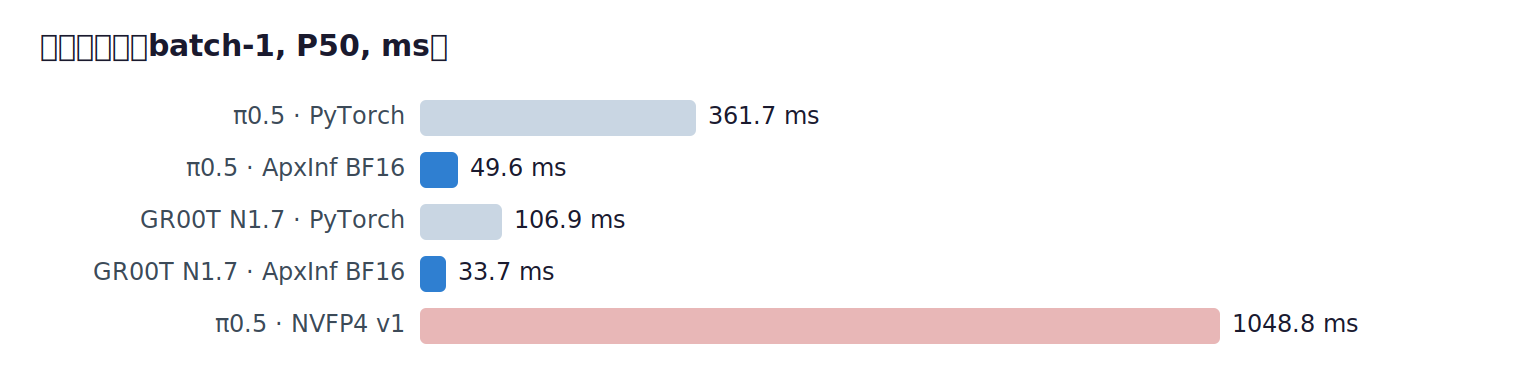
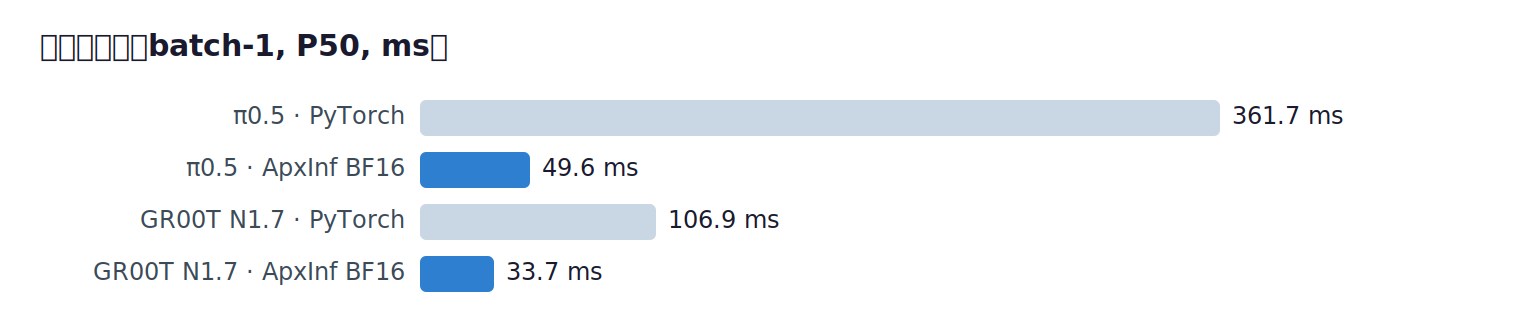
figure fixes: removed confusing NVFP4-v1 1048.8ms bar from e1 chart (degraded contended-window measurement, not a valid arm); replaced animated swizzle demo with static layout principle figure (logical grid -> physical 512B cluster slabs, formula, worked offsets) plus why-it-must-be-this-layout expl

Changed region(s): [[0.0618, 0.2381, 0.8967, 0.8929], [0.0309, 0.0893, 0.3092, 0.1786]]

diff --git a/paper/make_figs.py b/paper/make_figs.py
@@ -43,7 +43,6 @@ def e1_chart():
         ("π0.5 · ApxInf BF16", 49.6, "#2f7fd1"),
         ("GR00T N1.7 · PyTorch", 106.9, "#c9d6e3"),
         ("GR00T N1.7 · ApxInf BF16", 33.7, "#2f7fd1"),
-        ("π0.5 · NVFP4 v1", 1048.8, "#e8b7b7"),  # unfused routing, no graph (fusion headroom: 1.3-5.3x)
     ]
     hbar_chart(rows, "端到端延迟（batch-1, P50, ms）", " ms", "e1_latency.svg")
 
@@ -108,8 +107,69 @@ def ladder_chart():
     ]
     hbar_chart(rows, "闭环恢复阶樯：lIBERO-10 成功率（%，10×10 全量）", "%", "ladder.svg")
 
+
+
+def swizzle_layout():
+    """Static NVFP4 scale-layout principle diagram: logical (row, block) grid
+    -> physical swizzled buffer with the offset formula and worked examples.
+    Demo grid 8 rows x 8 blocks (real layout: 128-row panels, 32-row clusters)."""
+    import colorsys
+    W, H = 940, 500
+    s = [svg_header(W, H, "NVFP4 \u5757\u7f29\u653e\u7684\u7269\u7406\u5e03\u5c40\u539f\u7406\uff08\u9759\u6001\u793a\u610f\uff0c\u6f14\u793a\u7f51\u683c 8\u884c\u00d78 \u5757\uff09")]
+    def hue(r, b):
+        h = ((r * 47 + b * 23) % 360) / 360.0
+        rr, gg, bb = colorsys.hls_to_rgb(h, 0.78, 0.55)
+        return f"#{int(rr*255):02x}{int(gg*255):02x}{int(bb*255):02x}"
+    cell, gap = 22, 3
+    lx, ly = 150, 96
+    s.append(f'<text x="{lx + 4*cell}" y="72" font-size="13" font-weight="600" text-anchor="middle" fill="#1a1a2e">\u903b\u8f91\u89c6\u56fe scale[row, block]</text>')
+    for r in range(8):
+        for b in range(8):
+            x, y = lx + b * (cell + gap), ly + r * (cell + gap)
+            s.append(f'<rect x="{x}" y="{y}" width="{cell}" height="{cell}" rx="3" fill="{hue(r, b)}" stroke="#8fa3b8"/>')
+    s.append(f'<text x="{lx - 14}" y="{ly + 4*cell}" font-size="12" text-anchor="middle" fill="#3c4a58" transform="rotate(-90 {lx-14} {ly+4*cell})">\u884c r</text>')
+    s.append(f'<text x="{lx + 4*cell}" y="{ly - 12}" font-size="12" text-anchor="middle" fill="#3c4a58">\u5757 b\uff08\u6bcf\u5757\u7ba1 16 \u4e2a\u6743\u91cd\u5143\u7d20\uff09</text>')
+    s.append(f'<text x="{lx + 9*cell + 10}" y="{ly + 4*cell}" font-size="11" fill="#5b6b7d">\u6bcf\u683c = 1 \u5b57\u8282 E4M3</text>')
+    s.append(f'<text x="{lx + 9*cell + 10}" y="{ly + 4*cell + 18}" font-size="11" fill="#5b6b7d">\uff08\u4e00\u4e2a 16 \u5143\u7d20\u5757\u7684\u5e45\u5ea6\uff09</text>')
+    s.append('<text x="470" y="120" font-size="12.5" fill="#0f6db3" font-family="Consolas,monospace">off(r,b) = PS*(r/128)</text>')
+    s.append('<text x="470" y="140" font-size="12.5" fill="#0f6db3" font-family="Consolas,monospace">  + 512*(b/4)</text>')
+    s.append('<text x="470" y="160" font-size="12.5" fill="#0f6db3" font-family="Consolas,monospace">  + 16*(r%32)</text>')
+    s.append('<text x="470" y="180" font-size="12.5" fill="#0f6db3" font-family="Consolas,monospace">  + 4*((r/32)%4) + (b%4)</text>')
+    s.append('<text x="470" y="204" font-size="11.5" fill="#3c4a58">PS = 512*ceil(KB/4)\uff08\u4e00\u4e2a 128 \u884c panel \u7684\u5b57\u8282\u6570\uff09</text>')
+    s.append('<text x="470" y="232" font-size="11.5" font-weight="600" fill="#1a1a2e">\u4e3a\u4ec0\u4e48\u8981\u91cd\u6392\uff1f</text>')
+    for i, line in enumerate([
+        "\u2022 \u4e00\u884c\u7684 4 \u4e2a\u5757 scale \u5728\u7269\u7406\u4e0a\u8fde\u7eed\uff084 \u5b57\u8282\uff09",
+        "\u2022 32 \u884c\u7c07 \u00d7 4 \u5757\u7ec4 = 512B \u8fde\u7eed\u533a\u95f4",
+        "\u2022 kernel \u6309\u6b64\u987a\u5e8f\u6d88\u8d39\uff1awarp \u5408\u5e76\u8bbf\u95ee\uff0c",
+        "  \u6bcf lane \u4e00\u6b21 16B \u5411\u91cf\u8bfb\u8fd8\u4e00\u884c 4 \u5757",
+    ]):
+        s.append(f'<text x="470" y="{252 + i*18}" font-size="11.5" fill="#3c4a58">{line}</text>')
+    px, py = 742, 96
+    s.append(f'<text x="{px + 2*cell}" y="72" font-size="13" font-weight="600" text-anchor="middle" fill="#1a1a2e">\u7269\u7406\u7f13\u51b2\uff08\u4e24\u4e2a 512B slab\uff09</text>')
+    for slab in range(2):
+        ox = px + slab * (4 * cell + 52)
+        s.append(f'<text x="{ox + 2*cell}" y="{py - 12}" font-size="11" text-anchor="middle" fill="#0f6db3">slab {slab}\uff08b/4={slab}\uff09\u57fa\u5740 {512*slab}</text>')
+        s.append(f'<rect x="{ox - 4}" y="{py - 4}" width="{4*cell + 3*gap + 8}" height="{8*cell + 7*gap + 8}" fill="none" stroke="#0f6db3" stroke-dasharray="4 3"/>')
+        for r in range(8):
+            for q in range(4):
+                b = slab * 4 + q
+                off = 512 * (b // 4) + 16 * (r % 32) + 4 * ((r // 32) % 4) + (b % 4)
+                x, y = ox + q * (cell + gap), py + r * (cell + gap)
+                s.append(f'<rect x="{x}" y="{y}" width="{cell}" height="{cell}" rx="3" fill="{hue(r, b)}" stroke="#8fa3b8"/>')
+    s.append(f'<text x="{px}" y="{py + 8*cell + 22}" font-size="11" fill="#5b6b7d">\u540c\u8272 = \u540c\u4e00\u4e2a\u903b\u8f91\u5355\u5143\uff1b\u4e00\u5217 4 \u683c = \u4e00\u884c\u7684\u8fde\u7eed 4 \u5b57\u8282</text>')
+    s.append('<text x="150" y="356" font-size="12" font-weight="600" fill="#1a1a2e">\u5b9e\u4f8b\u8ba1\u7b97\uff08\u6f14\u793a\u7f51\u683c\uff0cr&lt;32 \u6545\u4ea4\u9519\u9879\u4e3a 0\uff09\uff1a</text>')
+    for i, (r, b) in enumerate([(0, 0), (0, 5), (3, 2), (7, 7)]):
+        off = 512 * (b // 4) + 16 * (r % 32) + 4 * ((r // 32) % 4) + (b % 4)
+        s.append(f'<text x="150" y="{378 + i*20}" font-size="12" fill="#3c4a58" font-family="Consolas,monospace">(r={r}, b={b}) -> \u5b57\u8282\u504f\u79fb {off}</text>')
+    s.append('<text x="470" y="400" font-size="11" fill="#5b6b7d">\u771f\u5b9e\u5c3a\u5bf8\uff1a128 \u884c/panel\uff1b\u884c\u5185\u6309 32 \u884c\u7c07\u56db\u7ec4\u4ea4\u9514\uff1b</text>')
+    s.append('<text x="470" y="418" font-size="11" fill="#5b6b7d">\u672c\u56fe\u4e3a 8\u00d78 \u7f29\u5c0f\u6f14\u793a\u3002\u5e03\u5c40\u7531\u5355\u5b57\u8282\u63a2\u9488\u5b9e\u9a8c\u6d4b\u5b9a\uff08\u00a73.1\uff09\u3002</text>')
+    s.append("</svg>")
+    (FIGS / "swizzle_layout.svg").write_text("".join(s), encoding="utf-8")
+    print("wrote swizzle_layout.svg")
+
 if __name__ == "__main__":
     e1_chart()
     opbench_heatmap()
     ladder_chart()
+    swizzle_layout()
     print("figures done ->", FIGS)

diff --git a/paper/build_html.py b/paper/build_html.py
@@ -41,56 +41,7 @@ blockquote{border-left:3px solid var(--soft);margin:16px 0;padding:2px 16px;colo
 .kv span{background:var(--band);border-radius:6px;padding:2px 10px;font-size:13px}
 """
 
-SWIZZLE_DEMO_JS = r"""
-// animated NVFP4 scale swizzle: logical (row, block) grid -> physical cuBLASLt buffer
-// formula decoded in spike: PS*(r/128) + 512*(b/4) + 16*(r%32) + 4*((r/32)%4) + (b%4)
-(function(){
-const svg=document.getElementById('swz'); if(!svg) return;
-const R=8, B=8;                                // demo grid 8x8 (formula generalizes)
-const PS=512*Math.ceil(B/4);
-const off=(r,b)=> PS*Math.floor(r/128) + 512*Math.floor(b/4) + 16*(r%32) + 4*(Math.floor(r/32)%4) + (b%4);
-const cell=19, gap=3, pad=30, midGap=70;
-const cells=[]; for(let r=0;r<R;r++)for(let b=0;b<B;b++)cells.push({r,b});
-const offs=[...new Set(cells.map(c=>off(c.r,c.b)))].sort((a,b)=>a-b);   // compact physical axis
-const W = pad + B*(cell+gap) + midGap + offs.length*(cell+gap) + pad;
-const H = pad + R*(cell+gap) + 34;
-svg.setAttribute('viewBox',`0 0 ${W} ${H}`);
-svg.setAttribute('width', W);
-const NS='http://www.w3.org/2000/svg';
-const hue=(r,b)=>`hsl(${(r*47+b*23)%360} 62% 80%)`;
-function el(tag,attrs,txt){const e=document.createElementNS(NS,tag);
-  for(const k in attrs)e.setAttribute(k,attrs[k]); if(txt!=null)e.textContent=txt; return e;}
-function label(x,y,txt,anchor){svg.appendChild(el('text',{x,y,'font-size':11,fill:'#5b6b7d',
-  'text-anchor':anchor||'start','font-family':'system-ui'},txt));}
-// frame titles
-label(pad, 20, '逻辑布局 scale(row, block)');
-label(pad + B*(cell+gap) + midGap, 20, '物理缓冲（swizzle 后字节偏移紧凑排列）');
-// logical position of cell (r,b): column b, row r
-const LX=b=>pad + b*(cell+gap), LY=r=>pad+12 + r*(cell+gap);
-// physical position: sorted offset index -> column; row = index of this cell among same-offset? offsets unique per (r,b) in this demo
-const colOf={}; offs.forEach((o,i)=>colOf[o]=i);
-const PX=c=>pad + B*(cell+gap) + midGap + colOf[off(c.r,c.b)]*(cell+gap);
-const PY=c=>LY(c.r);
-function draw(p){
-  [...svg.querySelectorAll('.anim')].forEach(e=>e.remove());
-  for(const c of cells){
-    const x0=LX(c.b), y0=LY(c.r), x1=PX(c), y1=PY(c);
-    const x=x0+(x1-x0)*p, y=y0+(y1-y0)*p;
-    svg.appendChild(el('rect',{x:x,y:y,width:cell,height:cell,rx:3,
-      fill:hue(c.r,c.b),stroke:'#8fa3b8','class':'anim'}));
-  }
-}
-let t=0, raf=null;
-function step(){
-  t+=0.012;
-  const cycle = t % (Math.PI+1.2);
-  const p = cycle<Math.PI ? (1-Math.cos(cycle))/2 : 1;
-  draw(p);
-  raf=requestAnimationFrame(step);
-}
-draw(0); setTimeout(()=>{raf=requestAnimationFrame(step)}, 700);
-})();
-"""
+SWIZZLE_DEMO_JS = ""
 
 def md_to_html(md: str) -> str:
     """Tiny markdown subset: headers, paragraphs, bold, code spans, code blocks, tables, lists."""
@@ -158,7 +109,7 @@ def main():
 <div class="meta">{html.escape(title.get('meta',''))}</div></header>
 {body}
 <hr><p class="meta">本页由 paper/build_html.py 生成 · 数据与代码见仓库 · {title.get('date','')}</p>
-</div><script>{SWIZZLE_DEMO_JS}</script></body></html>"""
+</div></body></html>"""
     out = PAPER / "paper.html"
     out.write_text(html_doc, encoding="utf-8")
     print(f"wrote {out} ({out.stat().st_size/1024:.0f} KB)")

diff --git a/paper/zhihu/article.md b/paper/zhihu/article.md
@@ -70,9 +70,13 @@ NVFP4 由三层结构组成：4-bit E2M1 数据格（值域 {0, ±0.5, ±1, ±1.
 
 ## 3.1 sm_120 上的 NVFP4 执行层
 
-**缩放布局的探针测定**。cuBLASLt 的 block-scaled 接口要求块缩放字节按一个未公开的物理公式排布。我们以三层递进的受控实验测定它（完整过程见 §A.2.1 的方法自述与仓库 spike/）：第一层用"平缩放"张量（所有块缩放相同）跑 GEMM 并二分替换 scale 缓冲的字节，定位"哪些字节位置真正被消费"；第二层用单字节非零探针（每次只置一个偏移为可分辨值）扫描出逻辑块 (row r, block b) 与物理偏移的映射；第三层以全随机数据在不同 K/行数下验证公式的普适性。最终得到 off(r,b) = PS·(r/128) + 512·(b/4) + 16·(r%32) + 4·((r/32)%4) + (b%4)，PS = 512·ceil(KB/4)——128 行为一个 panel、行内按 32 行四簇交错、块按 4 交错。该方法对任何"黑箱布局"问题可复用。
+**缩放布局的探针测定**。cuBLASLt 的 block-scaled 接口要求块缩放字节按一个未公开的物理公式排布。我们以三层递进的受控实验测定它（完整过程见 §A.2.1 的方法自述与仓库 spike/）：第一层用"平缩放"张量（所有块缩放相同）跑 GEMM 并二分替换 scale 缓冲的字节，定位"哪些字节位置真正被消费"；第二层用单字节非零探针（每次只置一个偏移为可分辨值）扫描出逻辑块 (row r, block b) 与物理偏移的映射；第三层以全随机数据在不同 K/行数下验证公式的普适性。最终得到 off(r,b) = PS·(r/128) + 512·(b/4) + 16·(r%32) + 4·((r/32)%4) + (b%4)，PS = 512·ceil(KB/4)——128 行为一个 panel、行内按 32 行四簇交错、块按 4 交错。
 
-![](images/swizzle-demo.png)
+**为什么必须是这个布局**。它不是任意约定，而是内存系统友好的重排：逻辑上行主序的 scale 矩阵被组织成以"32 行簇 × 4 块组"为单位的 512 字节连续区间——某一行的 4 个块缩放在物理上紧挨着（4 字节），GEMM kernel 的每个线程用一次 16 字节向量读取即可取到该行 4 个块共 64 个权重元素的缩放；一个 warp 的 32 行恰好消费一段连续的 512 字节，访存完全合并。若按行主序直接存放，同一行相邻 4 块的缩放会相距 KB 字节，每次向量读取都跨缓存行。下图给出逻辑视图到物理缓冲的静态映射、公式与实例计算（同色为同一逻辑单元）：
+
+![](images/swizzle_layout.png)
+
+这套"平探针定位消费字节 → 单字节扫描建映射 → 随机数据验公式"的三层流程对任何黑箱布局问题可复用。
 
 **引擎集成**。在测得布局后，NVFP4 GEMM 以 CUDA 适配器形式接入 APXInf（extern "C" 的 cuBLASLt 封装 + 在线激活量化核，CUDA 13 列主序适配；E2M1×E2M1→F16，scale 模式 VEC16_UE4M3），其上是 Rust 算子 fp4_linear、工件加载器（离线量化工件只上传不重量化）与组合式混合拓扑执行器 Fp4Blocks——每个线性层经 gemm_maybe_fp4 路由：有权重工件则"激活在线量化 + 块缩放 GEMM"，无则 BF16 直通，混合精度部署因此零代码改动（§A.2）。量化核手写位级 E4M3/E2M1 编码器而非调用硬件内建转换，以保证与离线参考逐位一致——四层验证（算子 corr=1.000000、逐块 scale 语义、工件级、kernel 级）收敛后才进入闭环实验。
 

diff --git a/paper/sections/03-方法.md b/paper/sections/03-方法.md
@@ -4,9 +4,13 @@
 
 ## 3.1 sm_120 上的 NVFP4 执行层
 
-**缩放布局的探针测定**。cuBLASLt 的 block-scaled 接口要求块缩放字节按一个未公开的物理公式排布。我们以三层递进的受控实验测定它（完整过程见 §A.2.1 的方法自述与仓库 spike/）：第一层用"平缩放"张量（所有块缩放相同）跑 GEMM 并二分替换 scale 缓冲的字节，定位"哪些字节位置真正被消费"；第二层用单字节非零探针（每次只置一个偏移为可分辨值）扫描出逻辑块 (row r, block b) 与物理偏移的映射；第三层以全随机数据在不同 K/行数下验证公式的普适性。最终得到 off(r,b) = PS·(r/128) + 512·(b/4) + 16·(r%32) + 4·((r/32)%4) + (b%4)，PS = 512·ceil(KB/4)——128 行为一个 panel、行内按 32 行四簇交错、块按 4 交错。该方法对任何"黑箱布局"问题可复用。
+**缩放布局的探针测定**。cuBLASLt 的 block-scaled 接口要求块缩放字节按一个未公开的物理公式排布。我们以三层递进的受控实验测定它（完整过程见 §A.2.1 的方法自述与仓库 spike/）：第一层用"平缩放"张量（所有块缩放相同）跑 GEMM 并二分替换 scale 缓冲的字节，定位"哪些字节位置真正被消费"；第二层用单字节非零探针（每次只置一个偏移为可分辨值）扫描出逻辑块 (row r, block b) 与物理偏移的映射；第三层以全随机数据在不同 K/行数下验证公式的普适性。最终得到 off(r,b) = PS·(r/128) + 512·(b/4) + 16·(r%32) + 4·((r/32)%4) + (b%4)，PS = 512·ceil(KB/4)——128 行为一个 panel、行内按 32 行四簇交错、块按 4 交错。
 
-{{fig:swizzle-demo}}
+**为什么必须是这个布局**。它不是任意约定，而是内存系统友好的重排：逻辑上行主序的 scale 矩阵被组织成以"32 行簇 × 4 块组"为单位的 512 字节连续区间——某一行的 4 个块缩放在物理上紧挨着（4 字节），GEMM kernel 的每个线程用一次 16 字节向量读取即可取到该行 4 个块共 64 个权重元素的缩放；一个 warp 的 32 行恰好消费一段连续的 512 字节，访存完全合并。若按行主序直接存放，同一行相邻 4 块的缩放会相距 KB 字节，每次向量读取都跨缓存行。下图给出逻辑视图到物理缓冲的静态映射、公式与实例计算（同色为同一逻辑单元）：
+
+{{fig:swizzle_layout}}
+
+这套"平探针定位消费字节 → 单字节扫描建映射 → 随机数据验公式"的三层流程对任何黑箱布局问题可复用。
 
 **引擎集成**。在测得布局后，NVFP4 GEMM 以 CUDA 适配器形式接入 APXInf（extern "C" 的 cuBLASLt 封装 + 在线激活量化核，CUDA 13 列主序适配；E2M1×E2M1→F16，scale 模式 VEC16_UE4M3），其上是 Rust 算子 fp4_linear、工件加载器（离线量化工件只上传不重量化）与组合式混合拓扑执行器 Fp4Blocks——每个线性层经 gemm_maybe_fp4 路由：有权重工件则"激活在线量化 + 块缩放 GEMM"，无则 BF16 直通，混合精度部署因此零代码改动（§A.2）。量化核手写位级 E4M3/E2M1 编码器而非调用硬件内建转换，以保证与离线参考逐位一致——四层验证（算子 corr=1.000000、逐块 scale 语义、工件级、kernel 级）收敛后才进入闭环实验。
 
